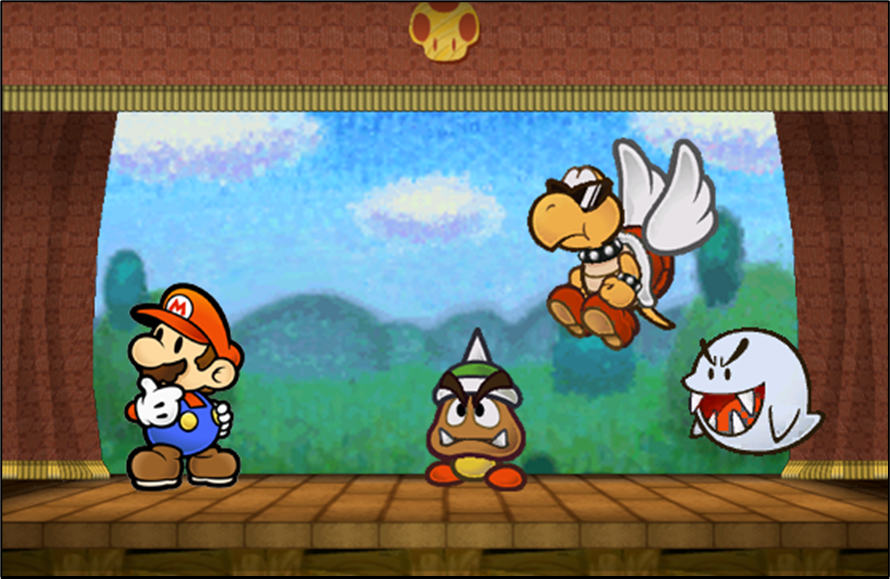
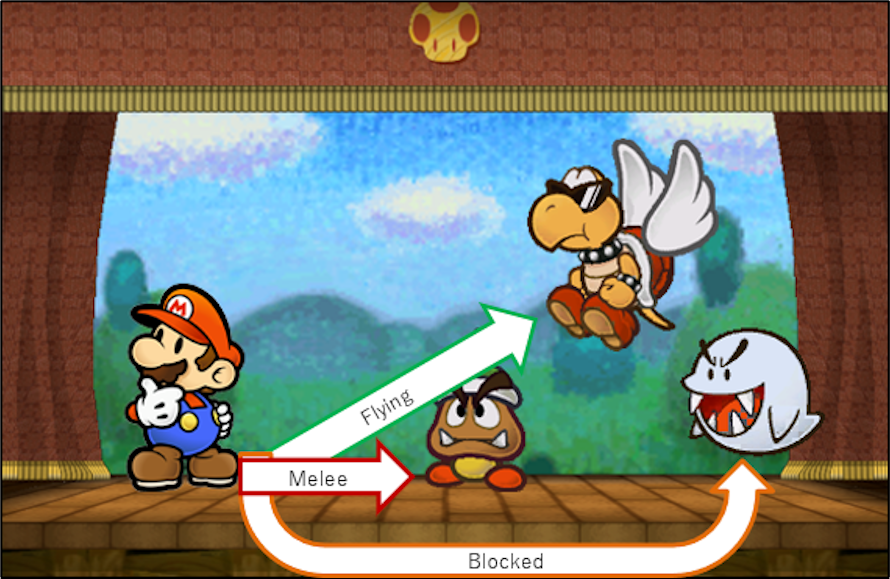
Began Positive Traits

diff --git a/techniques.md b/techniques.md
@@ -91,41 +91,92 @@ If you find that you just can't make the Technique of your dreams, or your Techn
 
 Some Traits have similar functions which are referred to in shorthand, explained here.
 
-## [X]
-{: .no_toc }
+### [X]
 
 This Trait can be chosen multiple times to strengthen its effects; additional instances are treated as the same singular Trait, but with effects varying based on how many times the Trait has been taken, [X].  
 If there's a limit on how many times it can be taken, this is referred to as the Cap.  
 Note that multiple instances of these values are added together, not multiplied. If [X] is 3, then [XX] would be 6 (3 + 3), and [XXXX] would be 12 (3 + 3 + 3 + 3).
 
-## [Secondary]
-{: .no_toc }
+### [Secondary]
 
 After the Primary Check is resolved, as long as it didn't fail and there's still a valid target, some Techniques have follow-up effects which require a Secondary Check. The Skill required for this is defined by the Trait it's acquired from – if the Trait lists multiple Skills, choose one of them when you first define the Technique, and if the Technique has multiple [Secondary] Traits, choose one skill to represent all Secondary effects.  
 In any case, you only roll one Secondary Check for all relevant effects. If multiple targets would be affected, they all suffer the consequences of the same Secondary Check.
 
-## [Approach]
-{: .no_toc }
+### [Approach]
 
 This Trait modifies the way the user approaches their target(s). Generally, multiple [Approach] Traits can't be taken at once.
 
-## [Target]
-{: .no_toc }
+### [Target]
 
 This Trait modifies the available targets for this Technique in some way. Generally, multiple [Target] Traits can't be taken at once.
 
-## [Strikes]
-{: .no_toc }
+### [Strikes]
 
 This Trait modifies the way Strikes and damage are allocated in some way, making it fundamentally different from a Single-Strike or Multi-Strike Technique.  
 Generally, multiple Strikes Traits can't be taken at once.
 
-## [Random]
-{: .no_toc }
+### [Random]
 
 This Trait features a random element. Multiple [Random] Traits can't be taken 
 at once, unless otherwise specified.
 
 ## Positive Technique Traits
+
+### *Aerial*{: .positive-color} *(+2 FP)*{: .spirit-color } [Approach]
+
+At the user's option, this Technique's Primary Check can use *Athletics*{: .heart-color } instead.  
+The user flies through the air to deliver this attack, striking from above. This allows them to hit targets from anywhere in the fight, though they may struggle to hit targets who are blocked in some way (e.g. under a low ceiling).  
+If the user is flying when they make an Aerial attack, they can Plummet as they make this attack.  
+Plummeting attacks are made at +1 Power, but require one more Grade of Success on their Primary Check.  
+Regardless of the outcome, the user becomes grounded after a Plummeting attack.
+
+### *All*{: .positive-color} *(+3 FP)*{: .spirit-color } [Target]
+
+This Technique affects all available targets, be they friend or foe, besides the user. At the user's option this can also include the *Indirect*{: .positive-color } Trait for no additional cost.
+
+### *Allies*{: .positive-color} *(+2 FP)*{: .spirit-color } [Target]
+
+This Technique affects all of the user's allies, but not themselves. At the user's option this can also include the *Indirect*{: .positive-color } Trait for no additional cost.
+
+### *Alternative*{: .positive-color} *(+2 FP)*{: .spirit-color }
+
+Choose *HP*{: .heart-color }, *SP*{: .courage-color } or Coins:
+- *HP*{: .heart-color }: This Technique spends *HP*{: .heart-color } instead of *FP*{: .spirit-color }. It can't recover *HP*{: .heart-color }, and can't be combined with *Blowback*{: .negative-color } or varieties of *Self*{: .negative-color } that deal damage to the user.
+- *SP*{: .courage-color }: This Technique spends *SP*{: .courage-color } instead of *FP*{: .spirit-color }. It can't recover *SP*{: .courage-color }, even through [Exceptional Results](TODO:LINK) (though [Exceptional Techniques](TODO:LINK) are still possible).
+- Coins: This Technique spends 5 Coins for every *1 FP*{: .spirit-color } it would cost. It can't steal Coins through *Snatch*{: .positive-color }, and can't cover an equivalent cost of more than *10 FP*{: .spirit-color } (for 50 Coins).
+
+The effective *FP*{: .spirit-color } cost can't be reduced lower than *1 FP*{: .spirit-color } by negative Traits while using *Alternative*{: .positive-color }.
+
+### *Boost*{: .positive-color} *(+2 FP)*{: .spirit-color } [Secondary - *Cheer*{: .courage-color }/*Magic*{: .spirit-color }] [X]
+
+The target's abilities are [Boosted](TODO:LINK) for [X] turns – the exact abilities affected by the Boost are decided when this Trait is bought.  
+For every additional Grade of Success, increase the Status Level by 1, to a maximum of [X].  
+This Technique can also use the following skills for Secondary Checks, depending on the ability being Boosted:
+
+- Attack: *Athletics*{: .heart-color } or *Coordination*{: .heart-color }
+- Defense: *Guard*{: .heart-color }
+- Dodge: *Trickery*{: .spirit-color }
+- Skill (e.g. *Steady*{: .courage-color }): The same Skill being Boosted
+
+If this Boost Technique has an element, it also has the following effects depending on the ability Boosted:
+
+- Attack: The target's attacks have the same element for the duration.
+- Defense: The target's Resist for that element is Boosted, too.
+
+### *Burst*{: .positive-color} *(+2 FP)*{: .spirit-color } [Strikes] [Target] [X]
+
+This Technique acts as a Single-Strike Technique on the initial target, then repeats on up to [X] valid targets in front of them, and up to [X] valid targets behind them, ignoring elevation.
+
+Each subsequent attack deals -1 damage (to a minimum of 1), calculated for each direction separately.
+
+### *Charm*{: .positive-color} *(+2 FP)*{: .spirit-color } [Secondary - *Magic*{: .spirit-color}/*Persuade*{: .courage-color }/*Trickery*{: .spirit-color }] [X]
+
+The target is [Charmed](TODO:LINK), causing them to be easily persuaded, for [X] turns.  
+For every additional Grade of Success, increase the Status Level by 1, to a maximum of [X].
+
+{: .tip-callout }
+> *An enemy Charmed is an enemy you don't have to deal with, *and*{: .underlined } an asset to fight your enemies! Even outside of combat, Charm can be incredibly useful. ![](assets/images/icons/tipguy.png)*{: .icon-right }
+
+### *Coin Toss*{: .positive-color} *(+? FP)*{: .spirit-color } [Random]
 
 WIP
